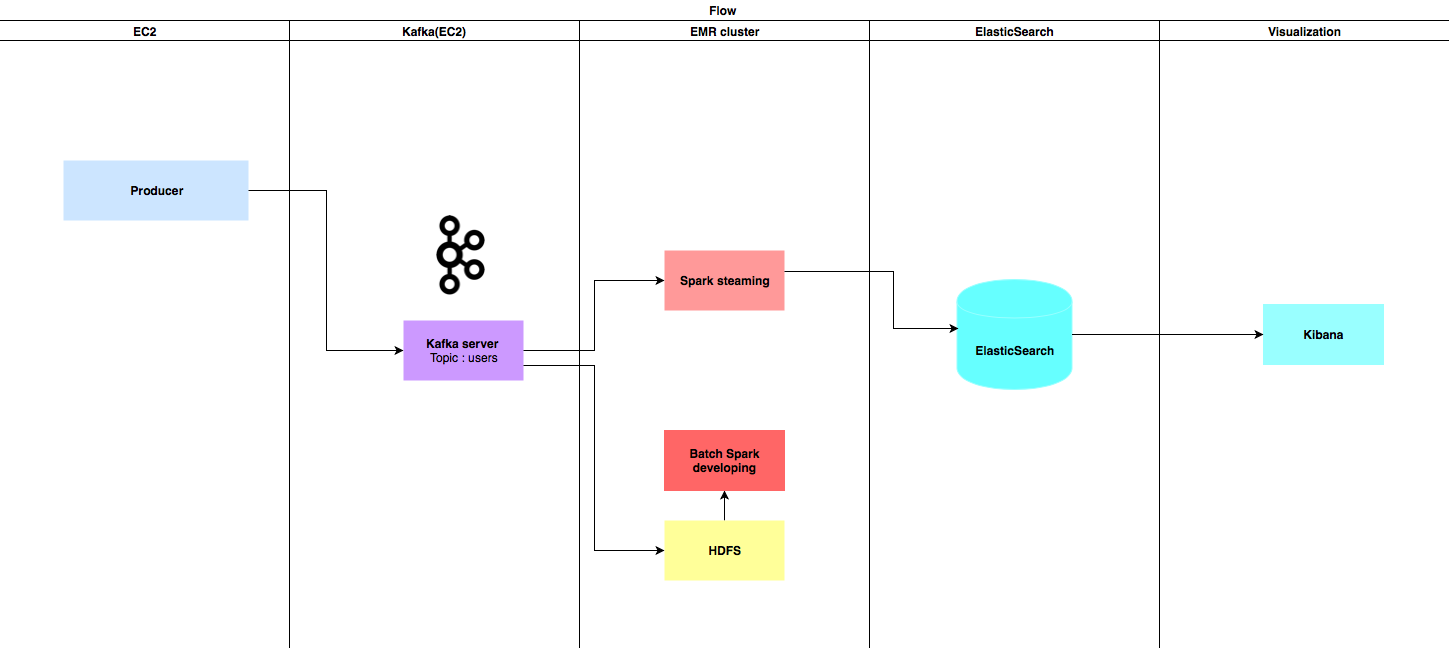
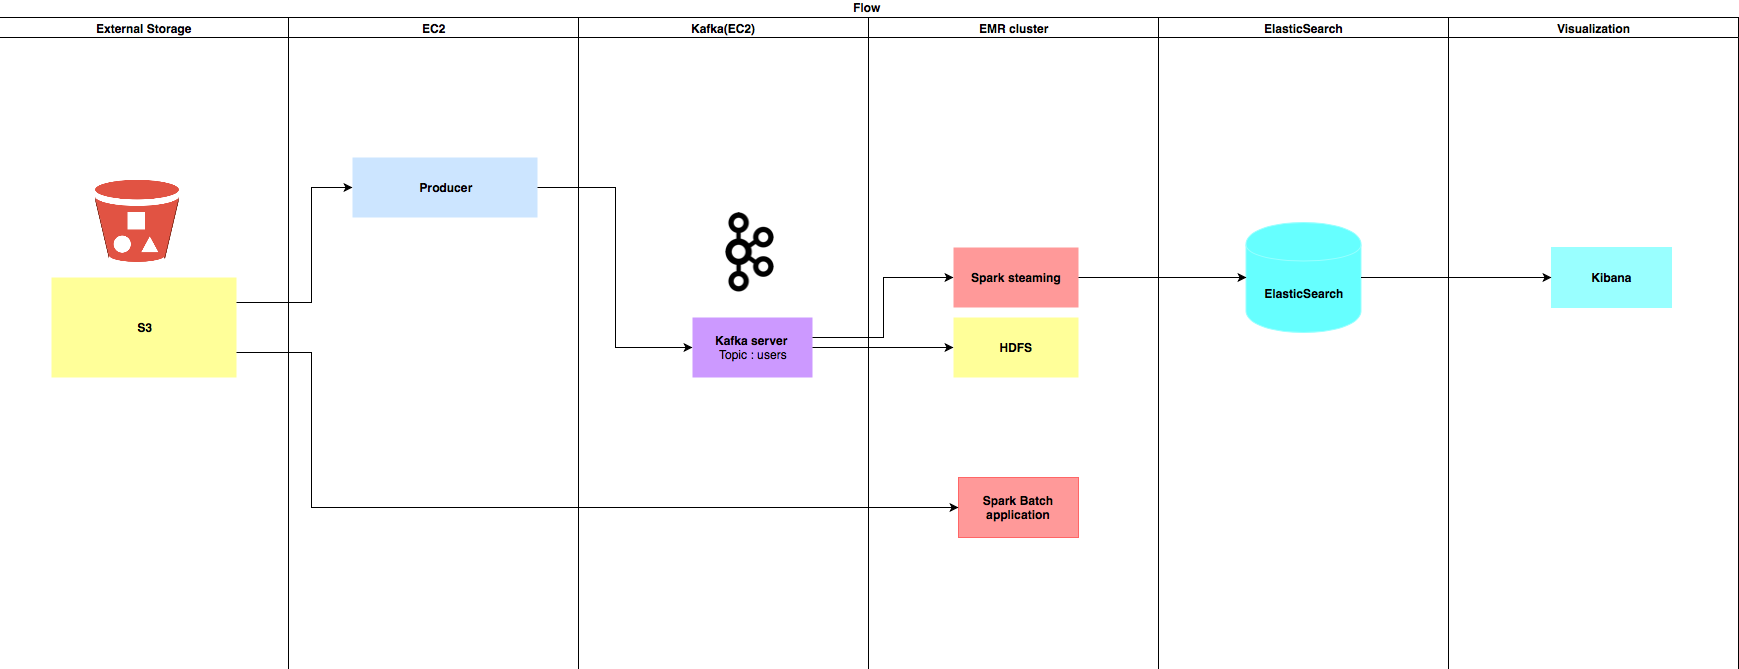
Update wording and flowchart

diff --git a/Readme.md b/Readme.md
@@ -1,10 +1,11 @@
 
 ## TODO
-* Spark app for batch
-* Kibana displays street level
-* Handle HDFS if samll size
-* Optimize code
-* Use scala spark instead pyspark
+* [x] Spark app for batch
+* [] Kibana displays street level
+* [] Handle HDFS if samll size
+* [] Optimize code
+* [x] Use scala spark
+
 
 ## Requirement
 * Kafka (Host on AWS EC2)
